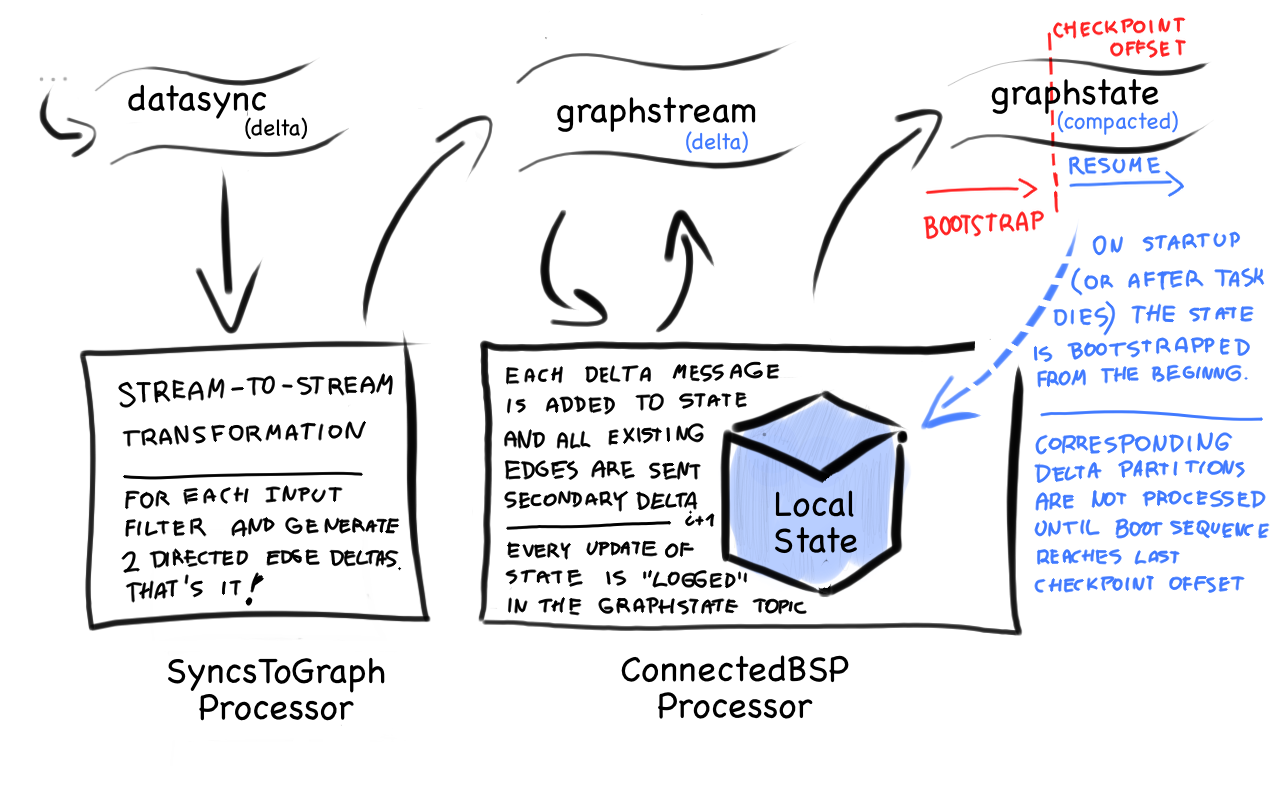
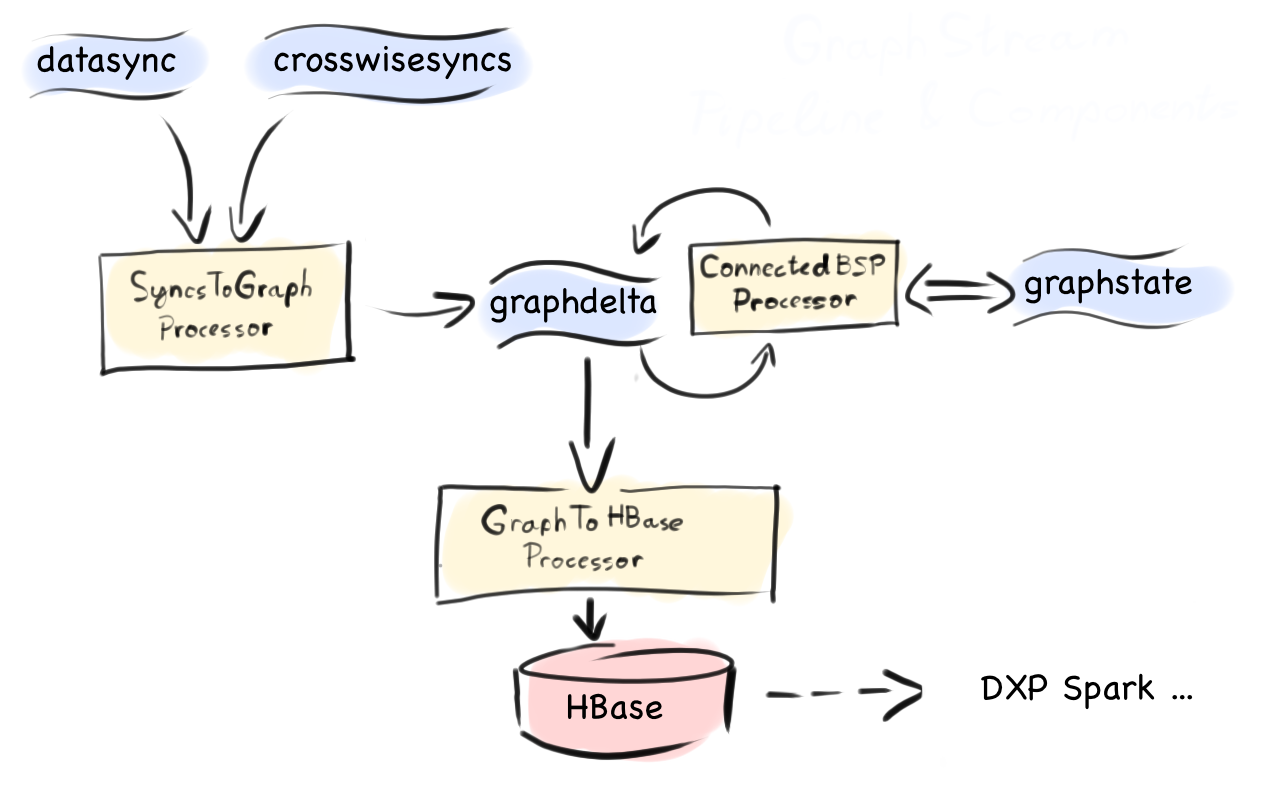
NOJIRA Updated architecture docs

Changed region(s): [[0.0, 0.0, 1.0, 0.9688], [0.125, 0.8125, 0.3125, 0.9062], [0.75, 0.8438, 0.9062, 0.875]]

diff --git a/README.md b/README.md
@@ -16,18 +16,24 @@
 ## GraphStream Pipeline Architecture
 </a>
 
-The GraphStream Pipeline consists of 2 components:
+The Graph Pipleine starts with syncs collected from Event Trackers or imported from partners and continues through GraphStream Application which processes and generates graph updates which are then off-loaded into HBase where there are mapped and available as Spark RDDs.
 
-1. **SyncsToGraph** - this is a simple transformation of `datasync` topic to `graphdelta` topic - syncs are filtered and for each sync that passes two respective BSPMessage(s) are sent representing edge and reverse edge of the connection.
-2. **ConnectedBSP** - this is a recursive operator which consumes (and recursively produces into) `graphdelta` delta topic as well as publishes the new state into the `graphstate` commit log topic.
+The GraphStream Application consists of 3 components:
 
-![hello](doc/GraphStream_architecture.png)
+1. **SyncsToGraph** - this is a simple transformation of `datasync` topic to `graphstream` delta topic - syncs are filtered and for each sync that passes two respective BSPMessage(s) are sent representing edge and reverse edge of the connection.
+
+2. **ConnectedBSP** - this is a recursive operator which consumes (and recursively produces into) `graphstream` delta topic as well as publishes the new state into the `graphstate` commit log topic.
+
+3. **GraphToHBase** - this is a compaction operator which takes recent updates to the graph, compacts them by the key and loads into HBase table dxp-graph
+
+
+![Architecture](doc/GraphStream_architecture.png)
 
 While SyncsToGraph is a simple stream-to-stream map operation, the internal workings of ConnectedBSP requires a more detailed explanation. It also illustrates more general concept of local state in the realm of stream processing, more specifically *recurisve stateful stream processing*
 
 First we need a different kind of topic - a commit log which is supported by Kafka fetaure called [Log  Compaction](https://cwiki.apache.org/confluence/display/KAFKA/Log+Compaction). A topic 'graphstate' in our architecture is log-compacted.
 
-*TODO zoom on the ConnectedBSP*
+![Compacted State](doc/GraphStream_state.png)
 
 
 <a name="configuration">
@@ -161,7 +167,6 @@ There are two components(see [architecture](#architecture) above) and each has 2
 ### TODOs
 
 - net.imagini.dxp.graphstream.ingest.CrosswiseToGraph 
-- update architecture diagram with 2 more components 
 - Zero copy transitions Kafka Input -> State -> Kafka Output (also currently ByteBuffer.array is used but some buffers may be direct)
 - Edges should not be represented as Map[Vid, EdgeProps] but rather Set[Edge] where Edge object would contain the dest Vid to allow for duplicate connections with different properties 
 - SyncsToGraph could have a state for short window for per-cookie counters to detected robots  
